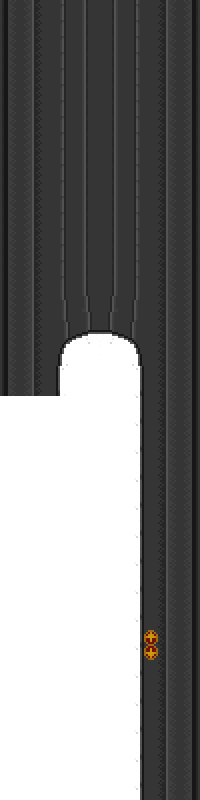
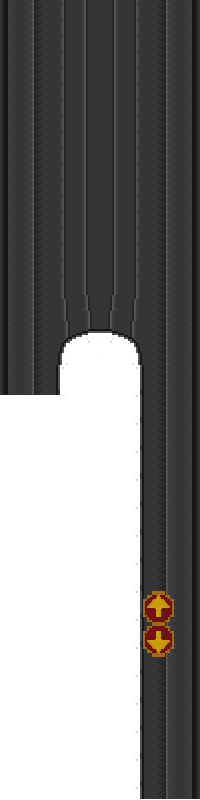
rimessi cartelli + aggiunte immagini pulsanti

Changed region(s): [[0.69, 0.7188, 0.87, 0.8438], [0.33, 0.4062, 0.69, 0.4375]]

diff --git a/src/Scene/level1.js b/src/Scene/level1.js
@@ -21,6 +21,7 @@ let img_lampa;
 let lampadari;
 let img_pavi_prosp;
 let pavi_prosp;
+let pulsante_1;
 
 let ascensore1;
 let ascensore2;
@@ -54,6 +55,8 @@ let collider_Asmodeo = true;
 let collider_casse_sopra = [];
 let collider_porta1 = true;
 
+let cartello_sgabuzzino;
+let cartello_pedana;
 
 livello.push(1);
 
@@ -102,6 +105,10 @@ function preload (s) {
     ascensoremuro = PP.assets.image.load(s, "Assets/immagini/AscensoreMuro.PNG");
     sfondo_sgabuzzino = PP.assets.image.load(s, "Assets/immagini/sotterraneo lvl1.png")
     sfondo_sgabuzzino_1 = PP.assets.image.load(s, "Assets/immagini/sotterraneo lvl1_1.png")
+
+    cartello_sgabuzzino = PP.assets.image.load (s, "Assets/immagini/Cartello - sotterraneo.png")
+    cartello_pedana = PP.assets.image.load (s, "Assets/immagini/Cartello - pedana.png")
+    pulsante_1 = PP.assets.image.load (s, "Assets/immagini/pressureplate lvl1.png")
 }
 
 // PROBLEMI PER ORA: HUD ferma,
@@ -258,7 +265,8 @@ function create (s) {
     PP.physics.add(s, pavimento_18, PP.physics.type.STATIC);
 
     // piattaforma attraversabile
-    
+    let cartello2 = PP.assets.image.add (s, cartello_sgabuzzino, 11100, 620, 0, 1);
+
     pavimento_19 = PP.assets.image.add(s, pavimento1, 11450, 620, 0, 0);
     PP.physics.add(s, pavimento_19, PP.physics.type.STATIC);
     
@@ -369,17 +377,19 @@ function create (s) {
 
     // porta tutorial
     
-    pedana1 = PP.shapes.rectangle_add(s, 3000, 639, 150, 40, "0xfbc456", 1);
+    let cartello1 = PP.assets.image.add (s, cartello_pedana, 2800, 620, 0, 0);
+
+    pedana1 = PP.assets. image.add(s, pulsante_1, 3000, 618, 0, 0,);
     PP.physics.add(s, pedana1, PP.physics.type.STATIC);
 
     // piattaforma sotterranea fine livello
     
-    pedana2 = PP.shapes.rectangle_add(s, 12200, 1588, 150, 40, "0xfbc456", 1);
+    pedana2 = PP.assets.image.add(s, pulsante_1, 12200, 1588-20, 0, 0);
     PP.physics.add(s, pedana2, PP.physics.type.STATIC);
 
     // porta finale
 
-    pedana3 = PP.shapes.rectangle_add(s, 12350, 637, 150, 40, "0xfbc456", 1);
+    pedana3 = PP.assets.image.add(s, pulsante_1, 12350, 618, 0, 0);
     PP.physics.add(s, pedana3, PP.physics.type.STATIC);
 
     
@@ -410,7 +420,7 @@ function create (s) {
     create_piatt (s, 6700, -950);
     create_piatt_move (s, 5550, 320);
     create_piatt_move (s, 6350, -955);
-    create_piatt_move (s, 11600, 1570);
+    create_piatt_move_extra (s, 11600, 1570);
     //create_piatt_move2 (s, 5780, -450);  potenzialmente da silurare permanentemente
     create_ghiglio(s, 8025, 398);
     create_ghiglio(s, 8575, 398);

diff --git a/src/Elementi di livello/piatt_move.js b/src/Elementi di livello/piatt_move.js
@@ -37,18 +37,7 @@ function preload_piatt_move (s) {
 }
 
 function create_piatt_move(s, x, y) {
-    if (piatt_move.lenght == 2) {
-        let piatt_move_sing = PP.assets.image.add(s, img_piatt_move1_2, x, y, 0, 0);
-        piatt_move_sing.geometry.scale_x = 1.5;
-        PP.physics.add(s, piatt_move_sing, PP.physics.type.DYNAMIC);
-        PP.physics.set_immovable(piatt_move_sing, true);
-        PP.physics.set_allow_gravity(piatt_move_sing, false);
-        PP.physics.set_velocity_y(piatt_move_sing, 0);
-        piatt_move.push(piatt_move_sing);
-        PP.timers.add_timer(s, 1000, bloccamento, true);
-        return;
-    }
-    let piatt_move_sing = PP.assets.image.add(s, img_piatt_move1, x, y, 0, 0);
+    piatt_move_sing = PP.assets.image.add(s, img_piatt_move1, x, y, 0, 0);
     piatt_move_sing.geometry.scale_x = 1.5;
     PP.physics.add(s, piatt_move_sing, PP.physics.type.DYNAMIC);
     PP.physics.set_immovable(piatt_move_sing, true);
@@ -59,6 +48,18 @@ function create_piatt_move(s, x, y) {
     // timer che blocca periodicamente la piattaforma finale in modo che non si muova se la pedana a presisone non è premuta
 
 
+}
+
+function create_piatt_move_extra (s, x, y) {
+    let piatt_move_sing = PP.assets.image.add(s, img_piatt_move1_2, x, y, 0, 0);
+    piatt_move_sing.geometry.scale_x = 1.5;
+    PP.physics.add(s, piatt_move_sing, PP.physics.type.DYNAMIC);
+    PP.physics.set_immovable(piatt_move_sing, true);
+    PP.physics.set_allow_gravity(piatt_move_sing, false);
+    PP.physics.set_velocity_y(piatt_move_sing, 0);
+    piatt_move.push(piatt_move_sing);
+    PP.timers.add_timer(s, 1000, bloccamento, true);
+    return;
 }
 
 function update_piatt_move(s) {
